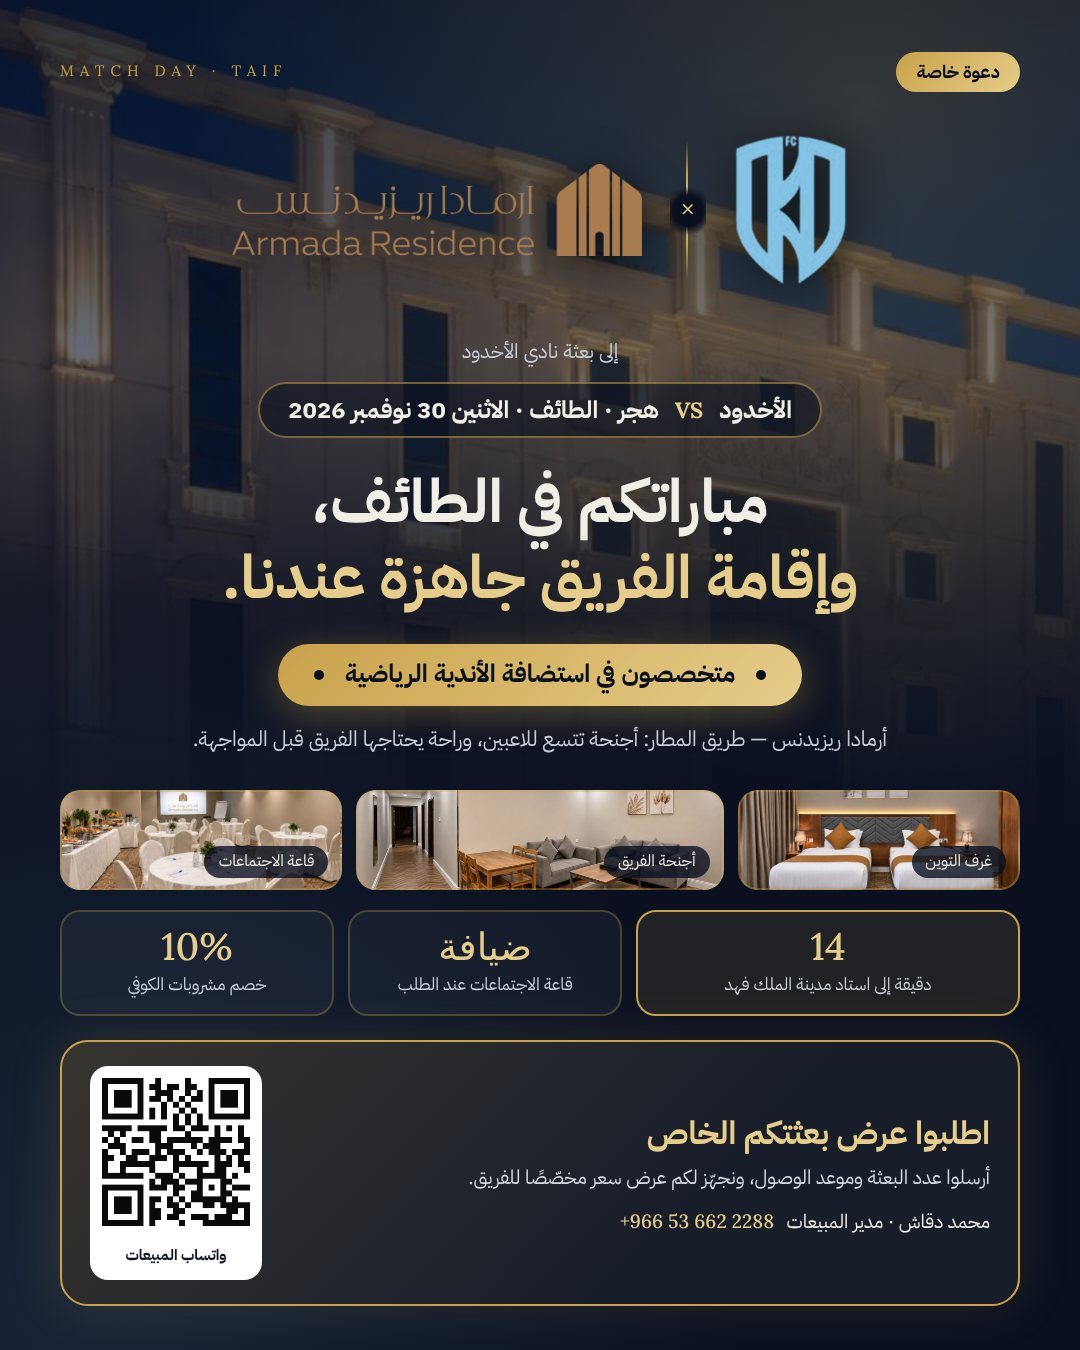
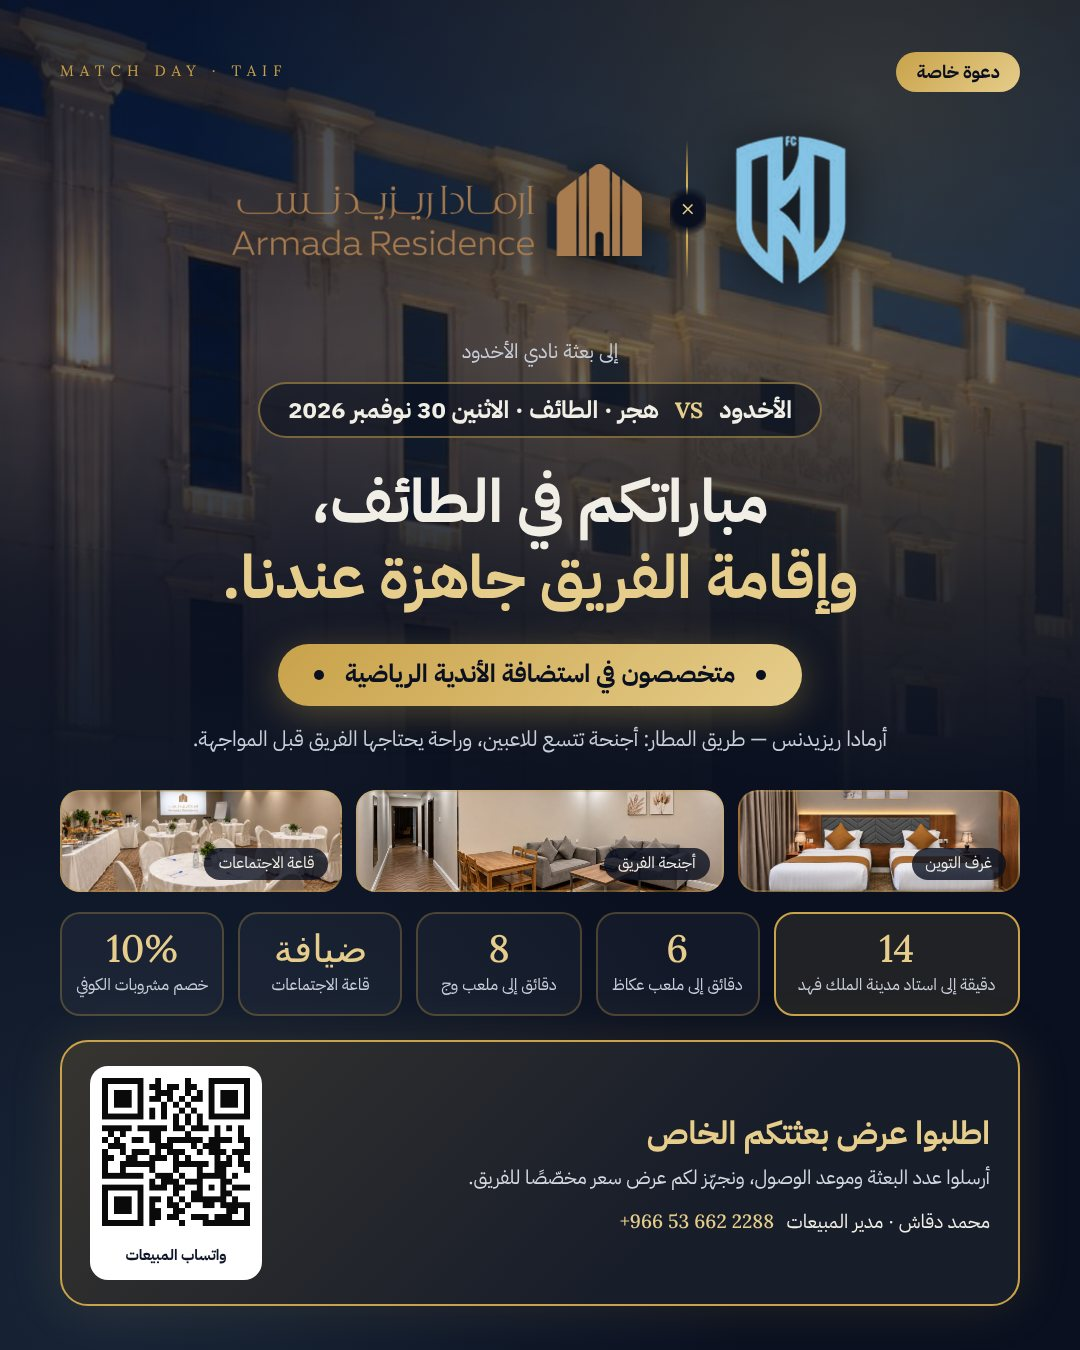
Okhdood email: all stadiums
Claude-Session: https://claude.ai/code/session_01KG7U2zUHCZeRYDDQPMPqsF

Changed region(s): [[0.0611, 0.6222, 0.9472, 0.7778], [0.0611, 0.5911, 0.1222, 0.6222], [0.1528, 0.5911, 0.1833, 0.6222]]

diff --git a/email/okhdood/index.html b/email/okhdood/index.html
@@ -20,13 +20,13 @@ body{margin:0;padding:0;background:#0A1020}
 <p style="margin:6px 0 0 0;font-size:14px;line-height:1.9;color:#C9CFD9;">تحية طيبة، وكل التوفيق لفريقكم في مواجهة <b style="color:#E6CD8B;">نادي هجر</b> بالطائف يوم <b style="color:#E6CD8B;">الاثنين 30 نوفمبر 2026</b>. يسعدنا في أرمادا ريزيدنس أن نكون بيت بعثتكم في الطائف.</p>
 </td></tr>
 <tr><td style="padding:16px 30px 0 30px;" class="px">
-<a href="https://wa.me/966536622288" target="_blank" style="text-decoration:none;"><img src="https://armadaresidence.github.io/armada-email-signature/email/okhdood/card.jpg" width="540" alt="أرمادا ريزيدنس × نادي الأخدود — مباراتكم في الطائف، وإقامة الفريق جاهزة عندنا" style="display:block;width:100%;max-width:540px;height:auto;border:0;border-radius:12px;"></a>
+<a href="https://wa.me/966536622288" target="_blank" style="text-decoration:none;"><img src="https://armadaresidence.github.io/armada-email-signature/email/okhdood/card.jpg?v=2" width="540" alt="أرمادا ريزيدنس × نادي الأخدود — مباراتكم في الطائف، وإقامة الفريق جاهزة عندنا" style="display:block;width:100%;max-width:540px;height:auto;border:0;border-radius:12px;"></a>
 </td></tr>
 <tr><td class="px" dir="rtl" style="padding:20px 30px 0 30px;font-family:'IBM Plex Sans Arabic',Tahoma,Arial,sans-serif;text-align:right;">
 <table role="presentation" width="100%" cellpadding="0" cellspacing="0" border="0" style="background:#141C30;border:1px solid #6B5A2E;border-radius:12px;">
 <tr><td dir="rtl" style="padding:16px 18px;font-size:14px;line-height:2;color:#F1EEE6;text-align:right;">
 <b style="color:#E6CD8B;font-size:15px;">متخصصون في استضافة الأندية الرياضية</b><br>
-◆ 14 دقيقة إلى استاد مدينة الملك فهد بالطائف<br>
+◆ 14 دقيقة إلى استاد مدينة الملك فهد · 6 دقائق إلى ملعب عكاظ · 8 دقائق إلى ملعب وج<br>
 ◆ أجنحة غرفتين وصالة تتسع لأربعة لاعبين، وغرف توين وأجنحة للجهاز الفني<br>
 ◆ قاعة الاجتماعات ضيافة من الفندق عند الطلب<br>
 ◆ خصم 10% على مشروبات الكوفي لأفراد البعثة
